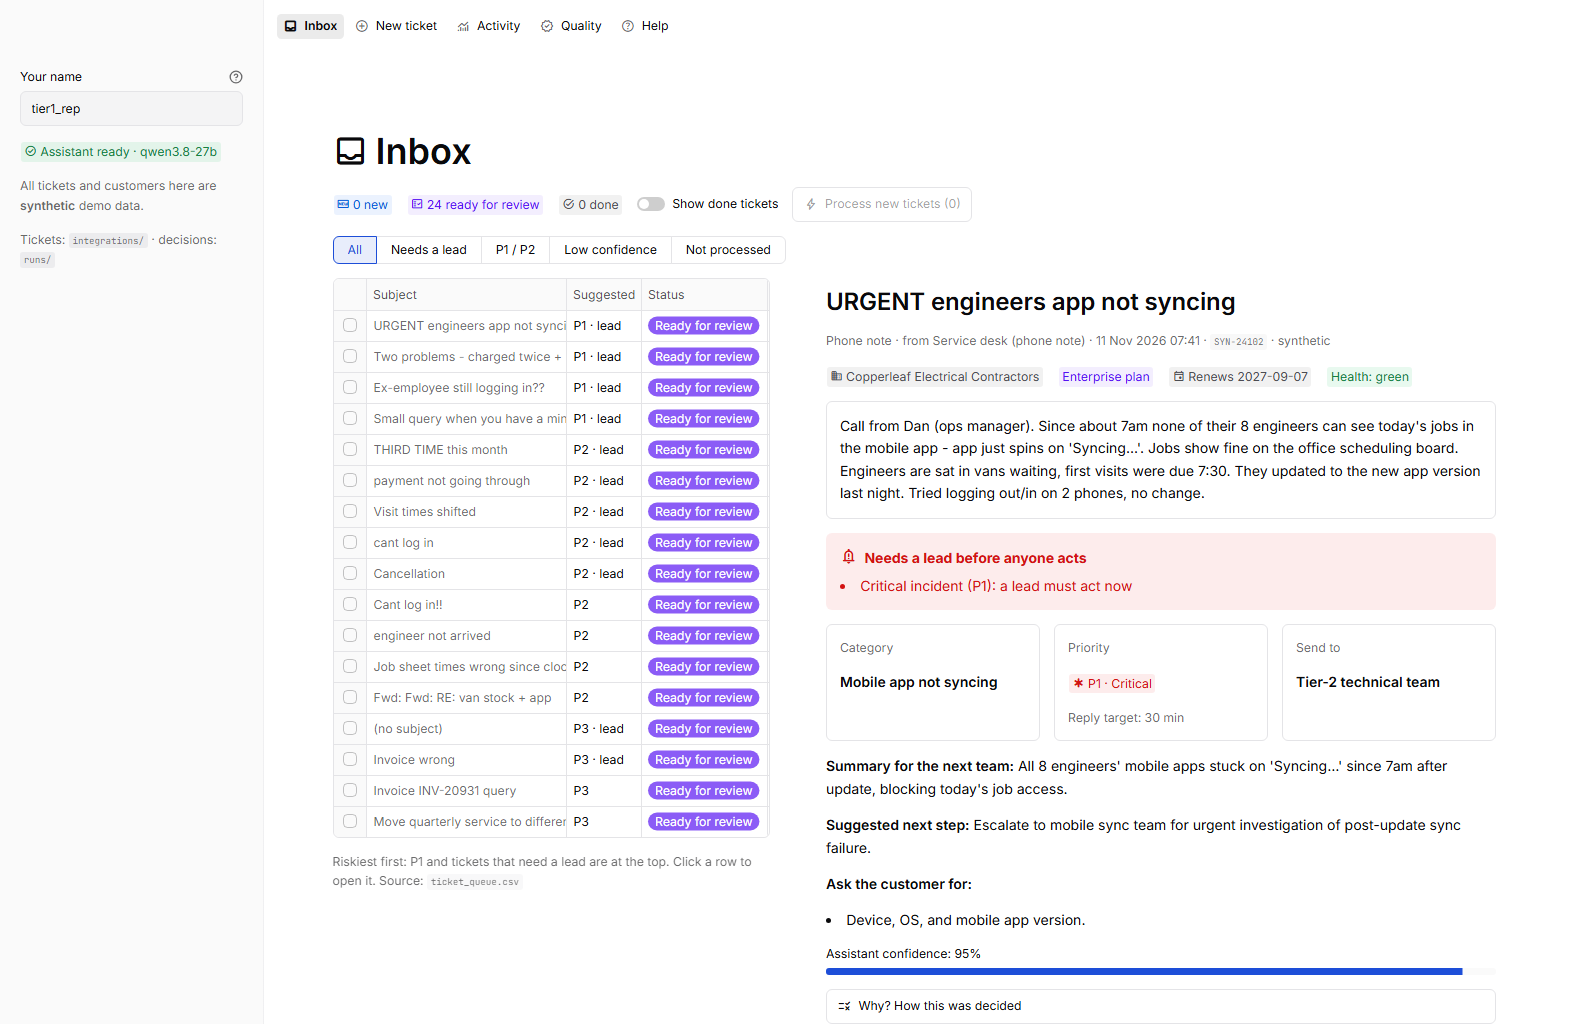
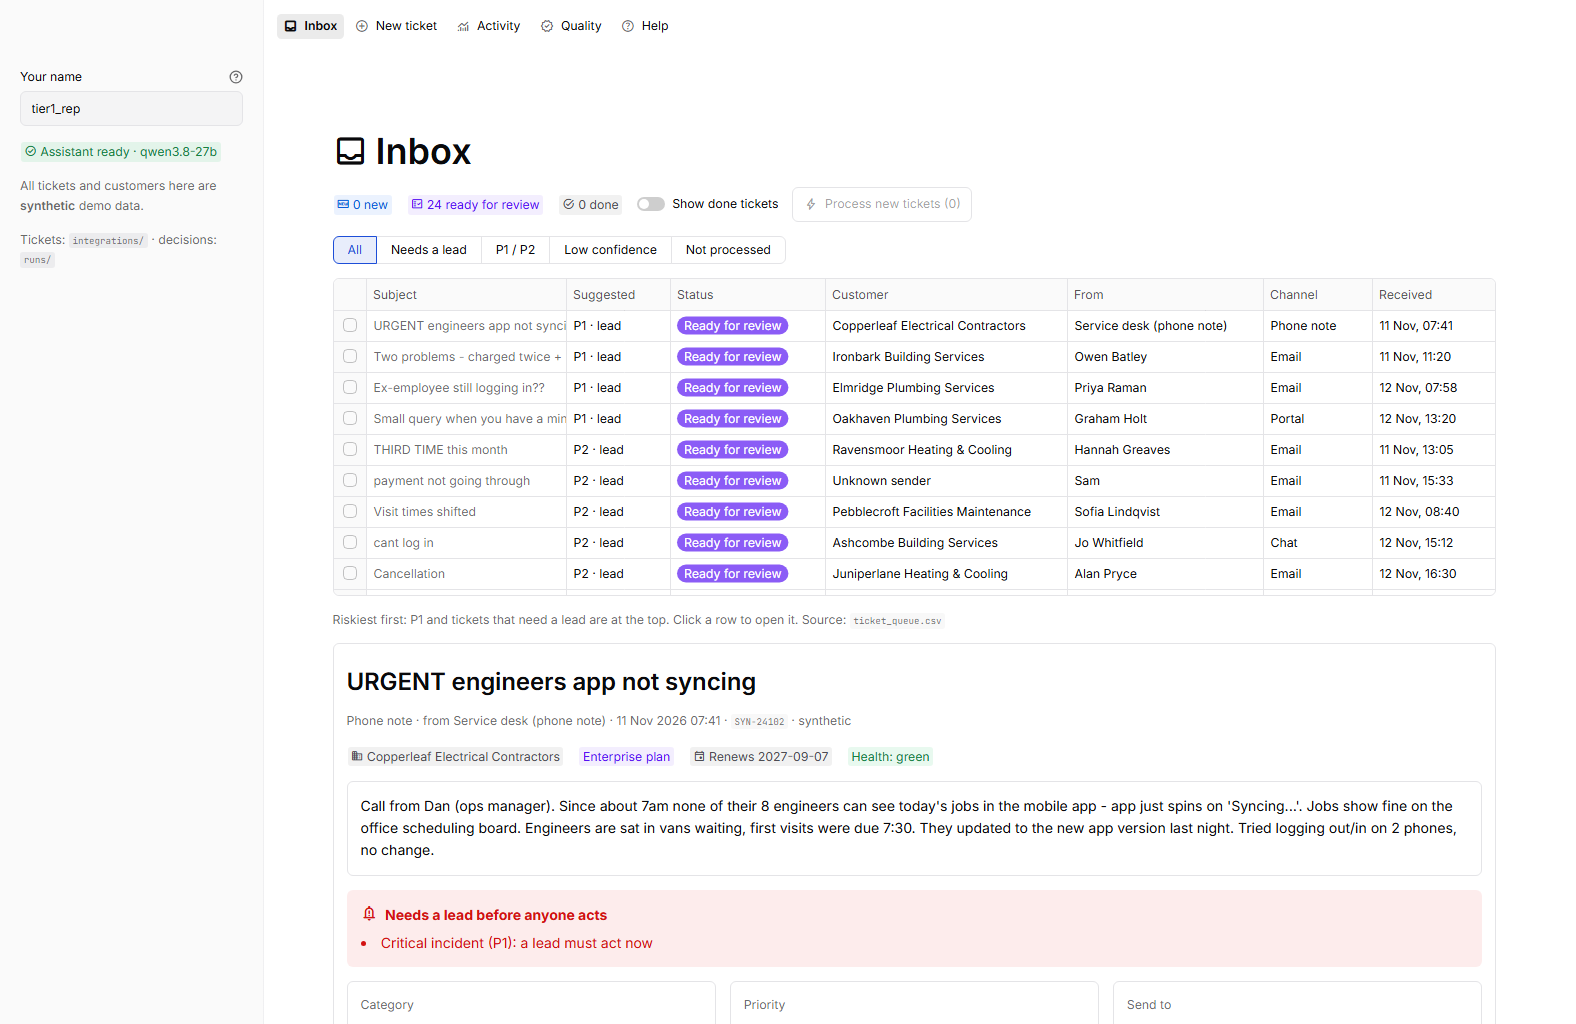
Finalized

diff --git a/app/app_pages/inbox.py b/app/app_pages/inbox.py
@@ -1,4 +1,4 @@
-import streamlit as st
+import streamlit as st
 
 import src.pipeline.run as pipeline_run
 from app import labels as L
@@ -101,6 +101,11 @@ if not visible:
             icon=":material/filter_alt_off:")
     st.stop()
 ids = [t.ticket_id for t in visible]
+# The table remembers a clicked row by its position. When the list changes (filter, processing, reset),
+# that position points at a different ticket or past the end, so forget the old click.
+if st.session_state.get("inbox_table_ids") != ids:
+    st.session_state.pop("inbox_table", None)
+    st.session_state.inbox_table_ids = ids
 if st.session_state.selected_ticket not in ids:
     st.session_state.selected_ticket = ids[0]
 
@@ -116,10 +121,12 @@ rows = [{"Subject": t.subject, "Suggested": _suggestion(t.ticket_id), "Status": 
          "Customer": ui.customer_name(t.customer_id), "From": t.from_name,
          "Channel": L.CHANNEL_TEXT[t.channel], "Received": t.received_at.replace(tzinfo=None)} for t in visible]
 
-list_col, detail_col = st.columns([2, 3], gap="large")
-with list_col:
+# Stacked layout: the ticket list across the full width on top, the selected ticket in full underneath.
+list_area, detail_area = st.container(), st.container(border=True)
+with list_area:
     event = st.dataframe(
-        rows, key="inbox_table", on_select="rerun", selection_mode="single-row", hide_index=True, height=560,
+        rows, key="inbox_table", on_select="rerun", selection_mode="single-row", hide_index=True,
+        height=min(38 + 35 * len(rows), 318),  # about 8 rows visible, then the table scrolls
         column_config={
             "Subject": st.column_config.TextColumn(width="medium", pinned=True),
             "Received": st.column_config.DatetimeColumn(format="D MMM, HH:mm"),
@@ -129,12 +136,13 @@ with list_col:
         },
         alt="Ticket queue: tickets waiting for triage",
     )
-    if event.selection.rows:
-        st.session_state.selected_ticket = ids[event.selection.rows[0]]
+    picked = event.selection.rows
+    if picked and picked[0] < len(ids):
+        st.session_state.selected_ticket = ids[picked[0]]
     st.caption(f"Riskiest first: P1 and tickets that need a lead are at the top. Click a row to open it. Source: `{ui.path_label(adapters.get_queue().path)}`")
 
 t = next(x for x in visible if x.ticket_id == st.session_state.selected_ticket)
-with detail_col:
+with detail_area:
     ui.show_ticket(t)
     s = snap.status[t.ticket_id]
     proposal = suggested.get(t.ticket_id) if s == "ready_for_review" or st.session_state.retriage == t.ticket_id else None

diff --git a/docs/day5/00_day5_summary.md b/docs/day5/00_day5_summary.md
@@ -8,7 +8,7 @@
 | One-command or 3-step setup | ✅ measured | `setup.ps1` then `run.ps1`. Tested on a clean clone: 6 min 56 s, ended "Ready"; tests pass in the clone |
 | User README and operator runbook | ✅ | [README](../../README.md) · [RUNBOOK](../RUNBOOK.md) |
 | Docs: architecture, data flow, evaluation set, results, limitations | ✅ | [system design](../day2/01_system_design.md) · [integrations and data flow](../day3/01_integrations.md) · [results](../day4/02_regression.md) · [failures](../day4/01_failure_analysis.md) · limitations in the [case study §7](../CASE_STUDY.md) |
-| 5-minute screen-recorded demo | 👤 | Script prepared. **The recording itself has to be made by the owner** |
+| 5-minute screen-recorded demo | ✅ | [Demo video](https://drive.google.com/file/d/1cC4W0cA24JfRQlw4x3d-eClBaBBjJuGY/view?usp=drive_link) · [script](01_demo_script.md) |
 | Portfolio case study | ✅ | [CASE_STUDY.md](../CASE_STUDY.md), all 8 sections |
 | Adoption and quality metrics for the first two weeks, next iteration | ✅ | [02_rollout_metrics.md](02_rollout_metrics.md) |
 | AI collaboration note | ✅ | [AI_COLLABORATION.md](../AI_COLLABORATION.md) |
@@ -24,6 +24,5 @@
 
 ## What is not done
 1. **A person using it.** First run (3.10) and feedback (4.8) are open. Nothing was written in their place.
-2. **The demo video.** Needs the owner.
-3. **Cost per ticket.** Needs the confirmed model price.
-4. **Real integrations.** The queue and CRM are file-based stand-ins behind adapters.
+2. **Cost per ticket.** Needs the confirmed model price.
+3. **Real integrations.** The queue and CRM are file-based stand-ins behind adapters.

diff --git a/README.md b/README.md
@@ -6,6 +6,8 @@ A working triage assistant for Tier-1 support at a B2B field-service software co
 
 > **All data in this repo is synthetic.** No real customers, tickets or people. Every figure is labelled *measured* (on the synthetic test sets with the real model), *estimate*, or *assumed*.
 
+**▶ [Watch the 5-minute demo video](https://drive.google.com/file/d/1cC4W0cA24JfRQlw4x3d-eClBaBBjJuGY/view?usp=drive_link)**
+
 ![The Triage Desk inbox: tickets sorted riskiest first, with the pre-filled triage card](docs/images/inbox.png)
 
 ## Results (measured)
@@ -87,6 +89,7 @@ To add a ticket, use **New ticket**, or add a row with status `new` to the CSV. 
 
 | Read this | For |
 |---|---|
+| [Demo video (5 min)](https://drive.google.com/file/d/1cC4W0cA24JfRQlw4x3d-eClBaBBjJuGY/view?usp=drive_link) | The problem, the live flow, safety and failure handling, and the results |
 | [docs/CASE_STUDY.md](docs/CASE_STUDY.md) | The whole project in one page: problem, design, results, failures, limits, next steps |
 | [docs/day4/01_failure_analysis.md](docs/day4/01_failure_analysis.md) | Seven failures traced to root cause, and what changed |
 | [docs/day2/01_system_design.md](docs/day2/01_system_design.md) | Architecture, data contracts, safety boundaries |
